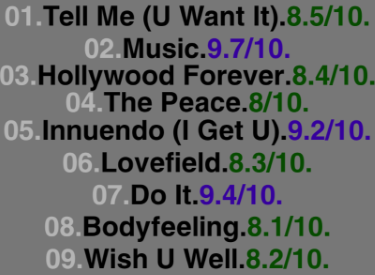
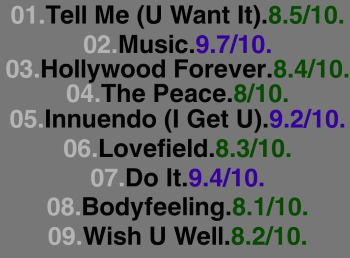
Add files via upload

diff --git a/underscores.html b/underscores.html
@@ -12,15 +12,24 @@
 	</head>
 	
 <style>
+	html {
+   margin: 0px;
+   height: 100%;
+   width: 100%;
+}
     body {
     font-family: Helvetica Neue;
 	font-weight: bold;
     background-color: #777777;
     color: #ffffff83;
     margin: 0;
+	min-height: 100vh;
+	width: 100vh;
     padding: 0;
 }
 </style>
+
+
 </head>
  
 <body>
@@ -30,7 +39,7 @@
 		<style>
 
 p { font-family: Helvetica Neue; font-size: 24px; font-style: normal; font-variant: normal; line-height: 26.4px;
-		text-align: left; transform: translate(100px,-8px); color: #ffffff83
+		text-align: left; transform: translate(185px,-8px); color: #ffffff83
 	}
 
 	</style>
@@ -42,32 +51,33 @@ p { font-family: Helvetica Neue; font-size: 24px; font-style: normal; font-varia
     </header>
 	</div>
 
-<img src="img/Flying20-20Mama-fotor-2026031825525.png" style="transform: translate(375px,100px)">
-<img src="img/01. Tell Me (U Want It).png" style="transform: translate(1666px,0px)">
+<img src="img/Flying20-20Mama-fotor-2026031825525.png" style="transform: translate(300px,100px)">
+<img src="img/01. Tell Me (U Want It).png" style="transform: translate(1000px,270px)">
 <style>
 	h2 { font-family: Helvetica Neue; font-size: 33px; font-style:italic; font-variant: bold; line-height: 26.4px;
-		text-align: left; transform: translate(850px,-300px); color: #000000e3;
+		text-align: left; transform: translate(800px,-300px); color: #000000e3;
 	 }
 	
 	h4 { font-family: Helvetica Neue; font-size: 24px;font-style:italic; font-variant: bold; line-height: 26.4px;
-		text-align: left; transform: translate(850px,-300px); color: #064b00; text-decoration: underline;
+		text-align: left; transform: translate(800px,-300px); color: #064b00; text-decoration: underline;
 	 }
 
 	 h5 { font-family: Helvetica Neue; font-style:normal; font-variant: bold; line-height: 26.4px;
-		text-align: left; transform: translate(850px,-300px); color: #000000;
+		text-align: left; transform: translate(800px,-300px); color: #000000;
 	 }
 
 	h6 { font-family: Helvetica Neue; font-style:n; font-variant: bold; line-height: 26.4px;
-		text-align: left; transform: translate(850px,-300px); color:#000000
+		text-align: left; transform: translate(800px,-300px); color:#000000
 	 }
 
 </style>
+
 <h2>underscores - U / review</h2>
 <h4>8.6/10</h4>
 <h5>electropop / hyperpop / glitch pop - mom+pop, corporate rockmusic - march 20, 2026</h5>
 <h6>by enrico elio scollante</h6>
-<h6><u>swipe right for the track rating!! ---></u></h6>
 
+<div class=main>
 <p>First article for the magazine and first review should go to the great underscores, which also inspired the "copycats" name 
 	<br>for the project, thanks to her collab track of the same name with Danny Brown.</br></p>
 
@@ -118,26 +128,38 @@ p { font-family: Helvetica Neue; font-size: 24px; font-style: normal; font-varia
 	beginning of the decade and enriched it with a sensitivity and personality unique to each artist, starting a small revolution in pop that, starting </br>
 	independently from places like SoundCloud and Bandcamp, has so far seen its peak with Charli XCX's Brat and that can only grow from here on </br>
 	out. And it's records like U, independent pop products through and through, that inspire others to create more and make it clear that pop can </br>
-	be this too, and not just bland supermarket music. Thank you, Underscores, for giving us this masterpiece.</br></p>
+	be this too, and not just bland supermarket music. Thank you, Underscores, for giving us this masterpiece.
 
+
+
+
+
+
+
+
+</br></p>
+
+	
 
 </div>
-	</body>
+</div>
 
-	<style>footer { background-color: #000000;} </style>
-
+<style>g { font-family: Helvetica Neue; font-size: 24px; font-weight: lighter; font-variant: normal; line-height: 26.4px;
+		text-align: left; transform: translate(1000px,0px); color: #000000
+	}
+</style>
 	<footer>
-<p><br>
-copycats magazine.</br></p>
-
-<section>
 	<style>
-	a {color: #4e00a1; transform: translate(100px,-8px) }
+	a {font-weight: lighter; color: #4e00a1; transform: translate(100px,-8px) }
 		 </style>
-	<br> thank you for reading! see more about copycats on <a href="https://copycatsssss.club">here.</a></br>
+	<g><br> thank you for reading! see more about copycats on <a href="https://copycatsssss.club">here.</a></br></g>
 <li><a href="#" class="icon brands fa-bandcamp"><span class="label">Bandcamp</span>follow copycats on bandcamp</a></li>
 <li><a href="#" class="icon brands fa-instagram"><span class="label">Instagram</span>follow copycats on instagram</a></li>
-</section>
+
+
+</footer>
+
+		</body>
 
 
 
@@ -149,7 +171,13 @@ copycats magazine.</br></p>
 			<script src="assets/js/breakpoints.min.js"></script>
 			<script src="assets/js/util.js"></script>
 			<script src="assets/js/main.js"></script>
-			
-</footer>
+		
+
+
+
+
+
+
+
 
 </html>
